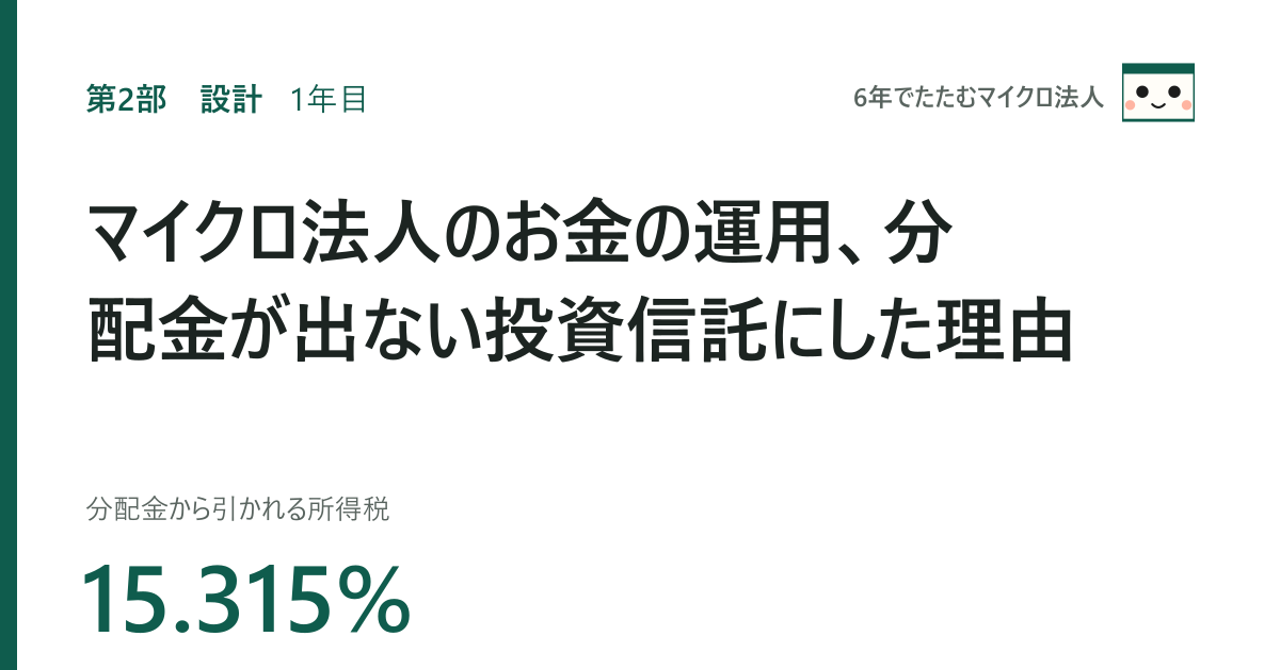
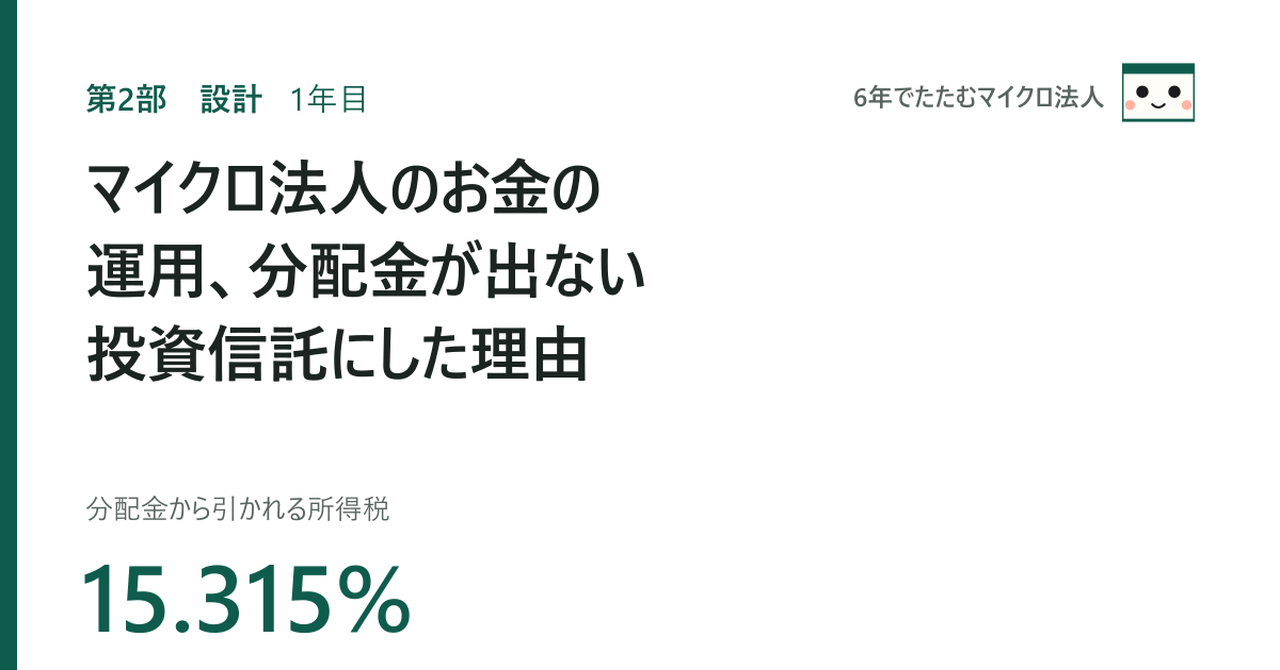
休職の記事の題名を検索語に合わせ、OG画像の題名が語の途中で折り返さないようにする

Changed region(s): [[0.0625, 0.2388, 0.8438, 0.5672]]

diff --git a/src/lib/og.ts b/src/lib/og.ts
@@ -31,20 +31,20 @@ const width = (s: string) => [...s].reduce((a, c) => a + cw(c), 0);
 const isHira = (c: string) => /[ぁ-ゖ]/.test(c);
 
 // t の直後で切るときの良さ（小さいほど良い）。助詞の後・句読点の後・ひらがな→漢字/カタカナの境目を好む
-function breakCost(t: string, next?: string) {
+function breakCost(t: string, next?: string, noKanjiCut = false) {
 	if (!next || NO_HEAD.includes(next[0])) return Infinity;
 	const last = t[t.length - 1];
 	if ('、？！）」 '.includes(last)) return 0;
 	if (next[0] === ' ') return Infinity;
-	if (PARTICLE.includes(last)) return isHira(next[0]) ? 2 : 0;
+	if (PARTICLE.includes(last)) return isHira(next[0]) ? Infinity : 0; // 「でも｜らえる」のように語の途中で切らない
 	if (isHira(last) && !isHira(next[0])) return 1;
 	if (/[ァ-ヶー]/.test(last) && /[ァ-ヶー]/.test(next[0])) return Infinity;
-	if (!isHira(last) && !isHira(next[0])) return 5;
+	if (!isHira(last) && !isHira(next[0])) return noKanjiCut ? Infinity : 5;
 	return Infinity;
 }
 
 // 1区切りを n 行に分け、行の長さをそろえる。最終行が3字未満にならないようにする
-function balance(text: string, max: number): string[] {
+function balance(text: string, max: number, noKanjiCut = false): string[] {
 	const tokens = text.match(TOKEN) ?? [];
 	const total = width(text);
 	if (total <= max) return [text];
@@ -63,7 +63,7 @@ function balance(text: string, max: number): string[] {
 					if (dp[j][k - 1] === Infinity) continue;
 					const w = pre[i] - pre[j];
 					if (w > max || w < 3) continue;
-					const bc = i === N ? 0 : breakCost(tokens[i - 1], tokens[i]);
+					const bc = i === N ? 0 : breakCost(tokens[i - 1], tokens[i], noKanjiCut);
 					if (bc === Infinity) continue;
 					const c = dp[j][k - 1] + (w - target) ** 2 + bc * 4;
 					if (c < dp[i][k]) {
@@ -86,7 +86,12 @@ function balance(text: string, max: number): string[] {
 
 // 「：」「？」で必ず改行し（記号は前の行に残す）、それぞれを行の長さをそろえて折り返す
 export function titleLines(title: string, max = 15): string[] {
-	return title.split(/(?<=[：:？?])/).flatMap((p) => balance(p.trim(), max));
+	const parts = title.split(/(?<=[：:？?])/).map((p) => p.trim());
+	const lines = parts.flatMap((p) => balance(p, max));
+	// 漢字の語の途中（「分｜配金」など）で切れたときは、3行以内で避けられるならそちらにする
+	const strict = parts.flatMap((p) => balance(p, max, true));
+	const cut = lines.some((l, i) => i < lines.length - 1 && breakCost(l, lines[i + 1]) === 5);
+	return cut && strict.length <= 3 && strict.every((l) => width(l) <= max) ? strict : lines;
 }
 
 export function ogSvg(opts: OgOpts) {
